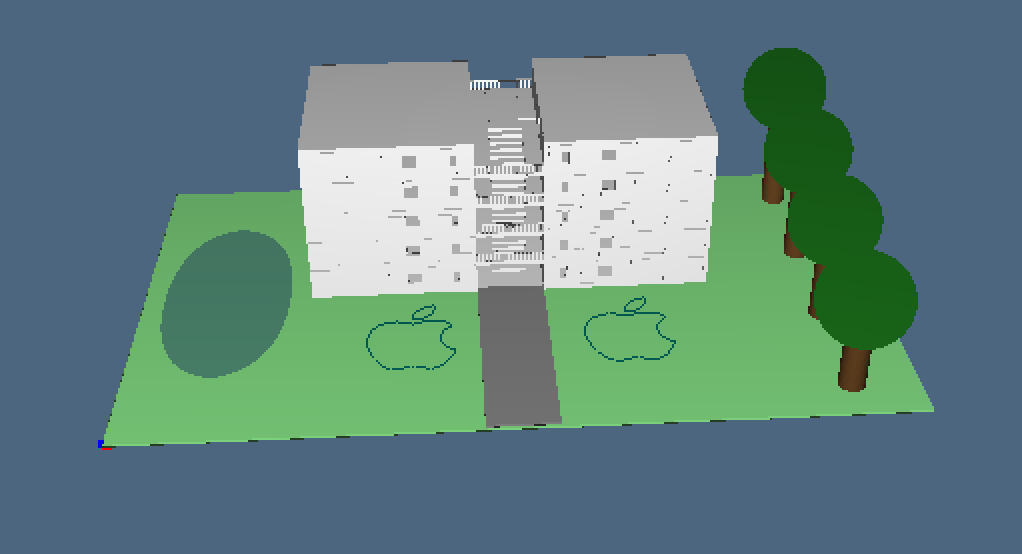
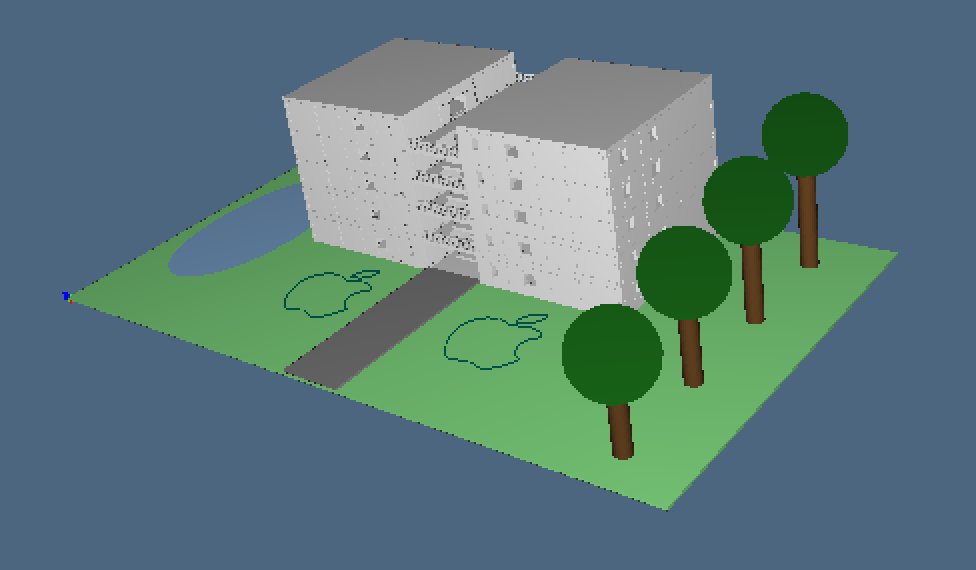
finalCommit

diff --git a/2014-05-16/python/exercise1.py b/2014-05-16/python/exercise1.py
@@ -22,70 +22,62 @@ hpc = cellNumbering (master,hpc)(range(len(CV)),gold,2)
 
 toRemove = [17,45,101,21,35,49,77,105,25,39,53,81]
 master = V,[cell for k,cell in enumerate(CV) if not (k in toRemove)]
-# DRAW(master)
+
 
 hpc = SKEL_1(STRUCT(MKPOLS(master)))
 hpc = cellNumbering (master,hpc)(range(len(master[1])),gold,2)
 
 # making all the door of the house
+
 zaxe = [2.2,1]
 
 toMerge = 7
 diagram = assemblyDiagramInit([1,3,2])([[.5],[1.9,3,1.9],zaxe])
 master = diagram2cell(diagram,master,toMerge)
 hpc = makeHole(master,gold)
-# VIEW(hpc)
 
 toMerge = 17
 diagram = assemblyDiagramInit([3,1,2])([[1.4,1,1.4],[.2],zaxe])
 master = diagram2cell(diagram,master,toMerge)
 hpc = makeHole(master,gold)
-# VIEW(hpc)
 
 toMerge = 39
 diagram = assemblyDiagramInit([3,1,2])([[1.3,1,3.5],[.2],zaxe])
 master = diagram2cell(diagram,master,toMerge)
 hpc = makeHole(master,gold)
-# VIEW(hpc)
 
 toMerge = 41
 diagram = assemblyDiagramInit([3,1,2])([[1.9,2,1.9],[.2],zaxe])
 master = diagram2cell(diagram,master,toMerge)
 hpc = makeHole(master,gold)
-# VIEW(hpc)
-
 
 
 toMerge = 51
 diagram = assemblyDiagramInit([1,3,2])([[.2],[2.4,2,2.4],zaxe])
 master = diagram2cell(diagram,master,toMerge)
 hpc = makeHole(master,gold)
-# VIEW(hpc)
 
 toMerge = 65
 diagram = assemblyDiagramInit([3,1,2])([[1.4,1,1.4],[.2],zaxe])
 master = diagram2cell(diagram,master,toMerge)
 hpc = makeHole(master,gold)
-# VIEW(hpc)
 
 toMerge = 75
 diagram = assemblyDiagramInit([1,3,2])([[.2],[4.3,1,1.5],zaxe])
 master = diagram2cell(diagram,master,toMerge)
 hpc = makeHole(master,gold)
-# VIEW(hpc)
 
 toMerge = 85
 diagram = assemblyDiagramInit([3,1,2])([[1.9,1,1.9],[.2],zaxe])
 master = diagram2cell(diagram,master,toMerge)
 hpc = makeHole(master,gold)
-# VIEW(hpc)
 
 toRemove = [108,114,120,126,132,138,144,150]
 master = master[0], [cell for k,cell in enumerate(master[1]) if not (k in toRemove)]
-# DRAW(master)
 
 
 # making all the windows of the house
+
 zaxe = [1,1.4,.8]
 
 toMerge = 14
@@ -117,7 +109,6 @@ toMerge = 94
 diagram = assemblyDiagramInit([1,3,3])([[.5],[1.6,1.5,3.7],zaxe])
 master = diagram2cell(diagram,master,toMerge)
 hpc = makeHole(master,gold)
-# VIEW(hpc)
 
 toRemove = [144,153,162,171,180,189,198]
 apartment = master[0], [cell for k,cell in enumerate(master[1]) if not (k in toRemove)]

diff --git a/2014-05-16/python/exercise2.py b/2014-05-16/python/exercise2.py
@@ -1,9 +1,6 @@
 from exercise1 import *
 from larcc import *
 
-brown = makeColor(101,67,33)
-forest = makeColor(34,139,34)
-
 def makeStairs(l1,l2,l3):
 	stairs = []
 	j = l2/5
@@ -35,15 +32,20 @@ def makeTree(coordinate):
 	def makeTree0(dimensions):
 		r,h = dimensions
 		trunk = CYLINDER ([r,h])(50)
-		chioma = SPHERE(r*3.5)([32,32])
+		chioma = SPHERE(r*4.5)([32,32])
 		trunk = COLOR(brown)(STRUCT([trunk]))
 		chioma = COLOR(forest)(STRUCT([chioma]))
 		return T([1,2])([bx,by])(STRUCT([trunk,T(3)(h+r)(chioma)]))
 	return makeTree0
 
+# defining all the colors
+
 green = makeColor(1,121,111)
 grey = makeColor(147,147,147)
-glass = [0.1,0.2,0.3,1,  0,0,0,0.5,  2,2,2,1, 0,0,0,1, 100]
+brown = makeColor(101,67,33)
+forest = makeColor(34,139,34)
+lawnColor = makeColor(152,255,152)
+water = makeColor(153,203,255)
 
 apartmentRotate = larApply(s(-1,1,1))(apartment)
 apartmentRotate = larApply(t(19.8,0,0))(apartmentRotate)
@@ -149,8 +151,6 @@ bars = STRUCT([bars1,bars2,bars3,bars4,bars5,bars6,bars7,bars8,bars9])
 
 condominium = T([1,2])([20,25])(STRUCT([condominium,stairs,bars]))
 
-lawnColor = makeColor(152,255,152)
-
 lawn_x = QUOTE([87.6])
 lawn_y = QUOTE([50])
 lawn_z = QUOTE([.3])
@@ -175,8 +175,8 @@ c1 = makeCurve([[10,10],[2.5,11],[2.49,23],[2.5,25]])
 c2 = makeCurve([[2.5,25],[2.49,27],[2.5,39],[10,40]])
 c3 = makeCurve([[10,40],[17.5,39],[17.51,27],[17.5,25]])
 c4 = makeCurve([[17.5,25],[17.51,23],[17.5,11],[10,10]])
-lake = STRUCT([c1,c2,c3,c4])
-lake = T(3)(.6)(MATERIAL(glass)(SOLIDIFY(lake)))
+lake = SOLIDIFY(STRUCT([c1,c2,c3,c4]))
+lake = T(3)(.6)(COLOR(water)(lake))
 
 sidewalk_x = QUOTE([-20,-19.8,8])
 sidewalk_y = QUOTE([25])
@@ -184,10 +184,10 @@ sidewalk_z = QUOTE([-.5,.3])
 sidewalk = COLOR(grey)(INSR(PROD)([sidewalk_x,sidewalk_y,sidewalk_z]))
 
 
-tree1 = makeTree([80,5])([1.5,10])
-tree2 = makeTree([80,18])([1.5,11.6])
-tree3 = makeTree([80,31])([1.5,13.2])
-tree4 = makeTree([80,44])([1.5,15])
+tree1 = makeTree([80,5])([1,10])
+tree2 = makeTree([80,18])([1,11.6])
+tree3 = makeTree([80,31])([1,13.2])
+tree4 = makeTree([80,44])([1,15])
 tree = STRUCT([tree1,tree2,tree3,tree4])
 
 VIEW(STRUCT([condominium,apple,lawn,sidewalk,lake,tree]))

diff --git a/2014-05-16/python/exercise3.py b/2014-05-16/python/exercise3.py
@@ -25,8 +25,6 @@ toRemove = [8,10,12,22,24,26,36,38,40]
 master = master[0],[cell for k,cell in enumerate(master[1]) if not (k in toRemove)]
 hpc = SKEL_1(STRUCT(MKPOLS(master)))
 hpc = cellNumbering (master,hpc)(range(len(master[1])),CYAN,2)
-# VIEW(hpc)
-# DRAW(master)
 
 #create a window
 shape = [3,1,3]
@@ -35,8 +33,6 @@ window = assemblyDiagramInit(shape)(sizePatterns)
 V,CV = window
 hpc = SKEL_1(STRUCT(MKPOLS(window)))
 hpc = cellNumbering (window,hpc)(range(len(CV)),CYAN,2)
-# VIEW(hpc)
-# DRAW(window)
  
 # create many windows in main structure
 master = mergingNumberingElimination(window,master,[7,18,29,10,21,32],[4])
@@ -45,5 +41,4 @@ master = mergingNumberingElimination(window,master,[7,18,29,10,21,32],[4])
 V,CV = master
 hpc = SKEL_1(STRUCT(MKPOLS(master)))
 hpc = cellNumbering (master,hpc)(range(len(CV)),CYAN,2)
-# VIEW(hpc)
 # DRAW(master)
